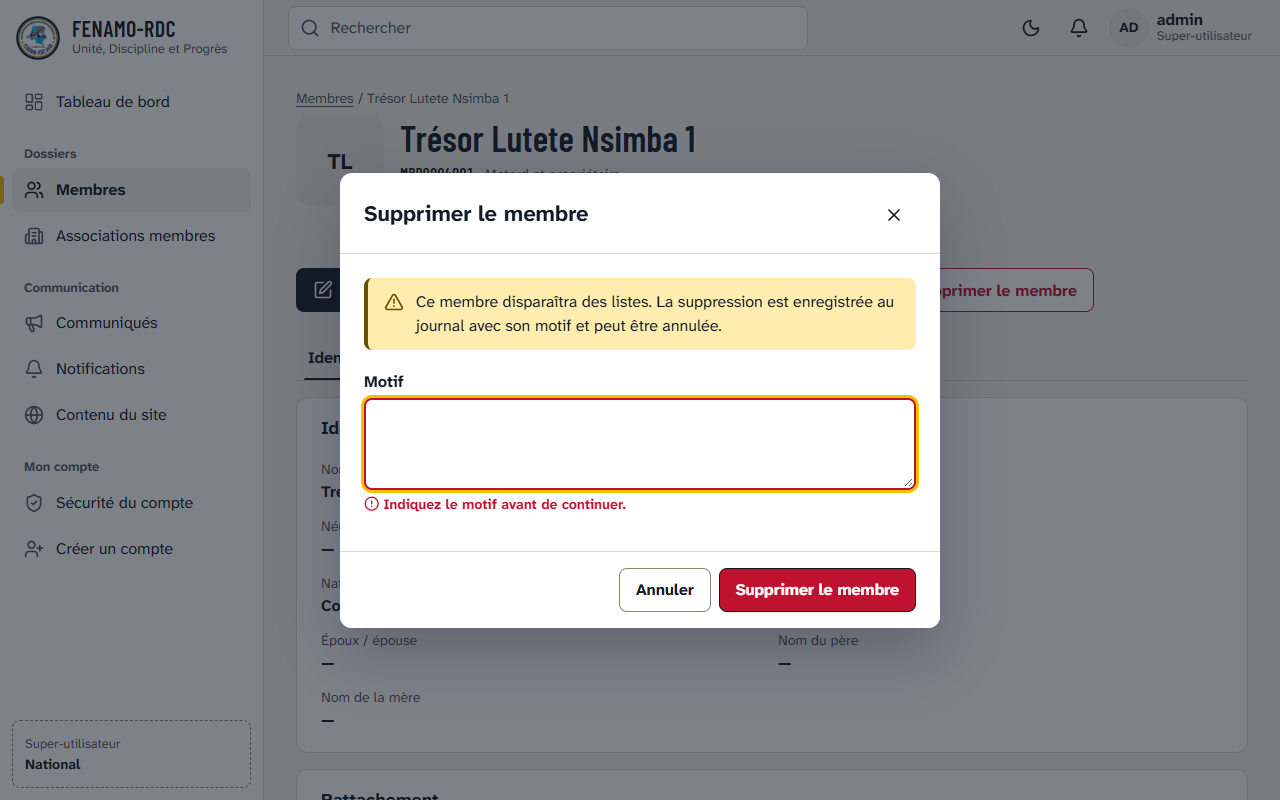
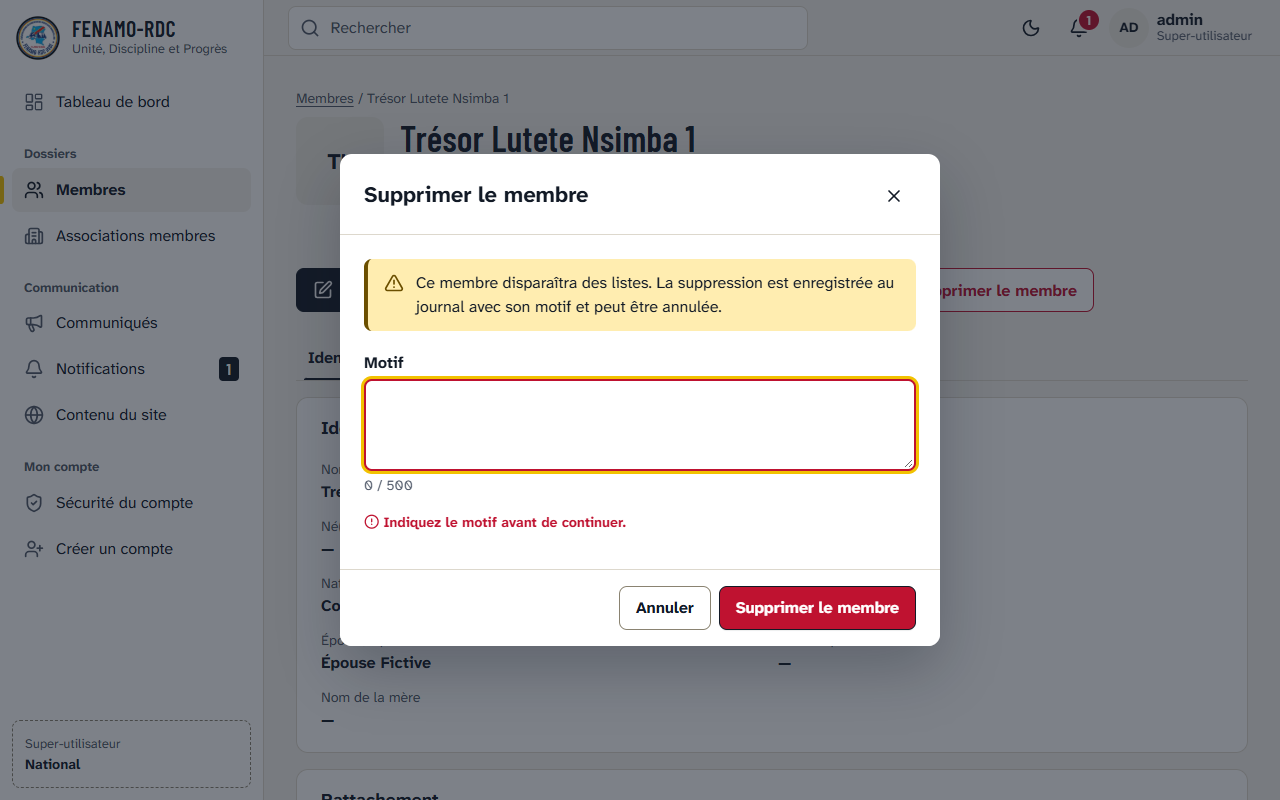
docs: état de l'intégration du design, captures à jour (F-28)

diff --git a/web_app/docs/design/systeme-de-design.md b/web_app/docs/design/systeme-de-design.md
@@ -12,7 +12,8 @@ Ce document est la référence de `frontend-htmx` : il applique ce qui est écri
 | Icônes (sprite) + licence ISC | `static/img/icons.svg`, `static/img/LICENCE-ICONES.txt` |
 | Gabarits de composants documentés | `templates/components/` |
 | Maquettes statiques (utilisent les vrais fichiers ci-dessus) | `docs/design/maquettes/` (ouvrir `index.html`) |
-| Captures 360 px et 1280 px, clair et sombre | `docs/design/captures/` |
+| Captures des maquettes, 360 px et 1280 px, clair et sombre | `docs/design/captures/` |
+| Captures des écrans intégrés (application réelle), 360 px et 1280 px | `docs/design/captures-integration/` |
 
 Pour ouvrir les maquettes avec les polices : depuis `web_app/`, `python -m http.server 8078`, puis `http://localhost:8078/docs/design/maquettes/`. Paramètres utiles : `?theme=sombre`, `?modale=modale-renvoi`, `?menu=ouvert`, `?bulle=1`, `?etat=invalide` (vérification).
 
@@ -126,7 +127,7 @@ Comparaison du premier jet (et du brouillon trouvé dans le dépôt) avec ce qu'
 - Toute couleur, taille, durée, ombre, rayon ou plan (`z-index`) vient d'une variable. Aucune valeur en dur dans les gabarits ni dans une autre feuille.
 - Thème sombre : attribut `data-theme="sombre"` sur `<html>`, posé par `theme.js` (choix enregistré dans `localStorage` sous la clé `fn-theme`, sinon préférence du système). Bascule : tout élément portant `data-theme-basculer` (géré par `design.js`, qui émet l'événement `themechange` pour Chart.js).
 - `prefers-reduced-motion: reduce` met toutes les durées à 0 (jetons `--d-*`) et `app.css` neutralise les animations restantes.
-- **Pont temporaire** en fin de fichier : il redirige les anciennes variables `--fn-*` du brouillon vers les nouveaux jetons pour que les écrans du brouillon restent utilisables. **À supprimer** dès que `base.html` charge `app.css` (voir § 8).
+- Le pont temporaire `--fn-*` du brouillon est supprimé : `base.html` charge `tokens.css` puis `app.css`, aucune variable `--fn-*` ne subsiste.
 
 Variables les plus utilisées :
 
@@ -253,29 +254,21 @@ Durées : `--d-court` 120 ms (survol, appui), `--d-moyen` 200 ms (bulles, tiroir
 | Journal d'activités (F-70, F-71) | `journal.html` | Filtres en puces + recherche ; jours en intertitres collants ; entrées `.journal` (heure, auteur, rôle, type d'action, objet, lieu) et `.journal-diff` pour l'avant/après ; pagination « Plus récent / Plus ancien ». |
 | Vérification d'une carte (aperçu, futur site) | `verification.html` | `.verif` : verdict plein (valide / non valide) en titre, photo, nom, identifiant, gilet, validité, coordination, engin en plaque ; **aucune donnée personnelle** au-delà (§ API) ; contraste AAA. |
 
-### 8.3 État du brouillon trouvé dans le dépôt
+### 8.3 État de l'intégration (application web)
 
-| Élément | Décision | Détail |
-| --- | --- | --- |
-| `static/js/theme.js` | **Garder** | Inchangé. |
-| `static/img/icons.svg`, `LICENCE-ICONES.txt` | **Gardé, régénéré** | Mêmes identifiants `i-<nom>` + nouvelles icônes (motorbike, square-parking, list-checks, tricycle…). Licence mise à jour (Lucide 1.55, ISC). |
-| `static/img/logo-*.webp`, `favicon.png` | **Garder** | |
-| `fenamo/balises.py` | **Garder `icone`** ; adapter le reste | `badge_etat` doit rendre `components/_badge_etat.html` ; `avatar` : classes `.avatar` neutres, **supprimer `teinte_avatar`** ; `etat_membre` : vérifier la correspondance (il saute « validé province » : `is_validate2` y est lu comme « validé antenne ») avec `backend-django` ; `indicateurs_tableau_bord` et `historique_objet` sont de la logique métier dans une balise : à déplacer dans un service (`backend-django`). |
-| `static/js/fenamo.js` | **Adapter** | Voir § 8.1, point 3. |
-| `static/js/envoi-unique.js` | **Garder** | Sert les écrans hérités (`base-app.html`). |
-| `templates/base.html`, `partials/_menu.html`, `_haut.html`, `_menu_bas.html` | **Refaire** | Sur la coque des maquettes. |
-| `partials/_modale.html`, `_modale_confirmation.html`, `_bouton_post.html`, `_bouton_confirmer.html` | **Remplacer** | Par `components/modale_base.html` (la confirmation de suppression est une modale avec un bouton `danger-plein`) et `components/_bouton.html`. |
-| `partials/composants/*` (`_stat`, `_raccourci`, `_avatar`, `_badge_etat`, `_etat_vide`, `_squelette`, `_entete_page`, `_confirmer`) | **Jeter** | Remplacés par `templates/components/`. La grille de raccourcis disparaît. |
-| `static/css/base.css`, `layout.css`, `components.css`, `pages.css`, `animations.css` | **Jeter** | Remplacés par `app.css` (après le § 8.1). |
-| `static/fonts/plus-jakarta-sans-latin.woff2`, `LICENCE-POLICE.txt` | **Jeter** | Remplacés par Atkinson Hyperlegible Next et Barlow Condensed. |
-| `tableau_bord/tableau_bord.html`, `partials/_corps.html`, `_raccourcis.html` | **Refaire / jeter `_raccourcis`** | Selon les maquettes de tableau de bord. |
-| `coptapp/membres/partials/*`, `app/membre.html`, `app/membre-list.html` | **Adapter** | Le découpage en fragments est bon ; le balisage suit les maquettes fiche et liste. |
-| `compte/pages-login.html`, `securite.html`, `verrou.html`, `partials/_compte_cree.html` | **Adapter** | Connexion et verrou : `.porte` ; sécurité : panneau + modale ; compte créé : modale avec le mot de passe temporaire en `.ident` et un bouton « Copier ». |
-| `templates/400.html` … `500.html`, `erreur_base.html` | **Adapter** | `.porte` + `.vide` + bouton « Revenir au tableau de bord ». |
+**Écrans intégrés** (gabarits sur la coque des maquettes, captures dans `docs/design/captures-integration/`) : connexion, verrou, changement de mot de passe, compte créé, erreurs 400/403/404/500, tableau de bord (variante président), liste des membres (recherche, puces d'état au pluriel, filtres en modale, pagination serveur), fiche membre et ses fragments, modales de la fiche (modifier, demande de modification, privilèges, attribution d'engin, suppression et restauration avec motif).
 
-À signaler à `backend-django` (constaté pendant les captures sur une copie de la base) : `/membres/` répond 500 (`Compte.MultipleObjectsReturned`, un `get()` trouve deux comptes) pour un super-utilisateur sans fiche membre.
+**Socle** : `base.html`, `partials/_menu.html`, `_haut.html`, `_menu_bas.html` ; `static/js/fenamo.js` (plomberie HTMX branchée sur `FenamoDesign`) ; `fenamo/balises.py` (`icone`, `badge_etat`, `avatar`, filtres d'état lisant `coptapp.services.etats`) ; `static/js/theme.js`, `envoi-unique.js` (écrans hérités).
 
----
+**Composants utilisés par les écrans intégrés** : `components/modale_post.html` (envoi ordinaire, CSRF), `modale_confirmation.html` et `_confirmer.html` (confirmation avec motif, action explicite, réponse 409 en bulle), `_champ`, `_bouton`, `_erreur`, `_etat_vide`, `_pagination`, `_badge_etat`, `_plaque`, `_icone`, `_squelette`, `_bulles`, `_modale_conteneur`, `_chiffre`. Codes d'état en snake_case partout (classes CSS, jetons, URLs) ; libellés dans `coptapp.services.etats.LIBELLES`.
+
+**Fichiers du brouillon jetés** : `base.css`, `layout.css`, `components.css`, `pages.css`, `animations.css`, Plus Jakarta Sans et sa licence, `partials/composants/*`, `_raccourcis.html`, `partials/_modale.html`, `_modale_confirmation.html`, `_bouton_confirmer.html`.
+
+**Encore en service pour les écrans hérités** : `base-app.html` (Bootstrap) et `partials/_bouton_post.html` (bouton POST ordinaire avec CSRF, utilisé aussi par la fiche et la liste), jusqu'à la migration de ces écrans.
+
+**Écrans restants (phase 2)** : tout ce qui étend `base-app.html` (associations membres, communiqués, notifications, contenu du site avec sa modale de suppression d'article en Bootstrap, ajout et fiche d'engin, famille, comptes, résultats de recherche) ; faute de vue ou de données : file de validation et renvoi avec motif (F-23), journal (F-70, F-71), vérification d'une carte, modale d'enregistrement d'un membre en 3 étapes (F-20), tableau de bord de l'agent, circuit détaillé et carte de membre sur la fiche (F-27), plaque d'engin avec code de coordination (F-31), compteurs sur les puces d'état, export de la liste.
+
+Points à garder en tête : l'aide des pièces jointes (« PDF, JPEG ou PNG, 3 Mo ») est écrite en dur dans les pages d'ajout héritées, la limite `UPLOAD_PIECE_MAX_MO` n'étant pas exposée aux gabarits.
 
 ## 9. Autocritique après captures
 
